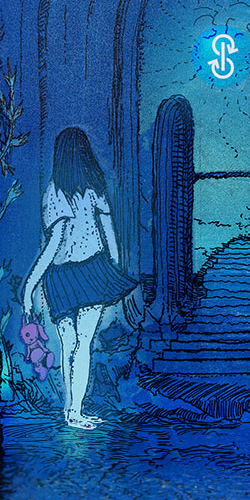
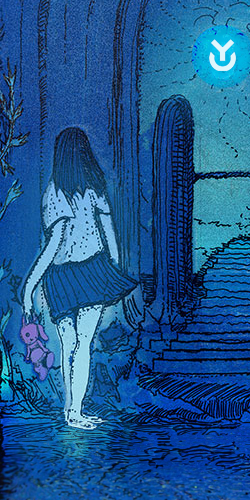
updates to homepage images

Changed region(s): [[0.784, 0.06, 1.0, 0.18]]

diff --git a/src/homepageFeaturesV2.js b/src/homepageFeaturesV2.js
@@ -17,7 +17,7 @@ export default [
         title: 'Build the future of finance.',
         description: 'Everything you need to build on Yearn',
         to: './developers/building-on-yearn',
-        bannerImage: '/img/intro/pixie-banner-grad.png',
+        bannerImage: '/img/intro/pixie-banner-grad-flower.png',
       },
     ],
   },
